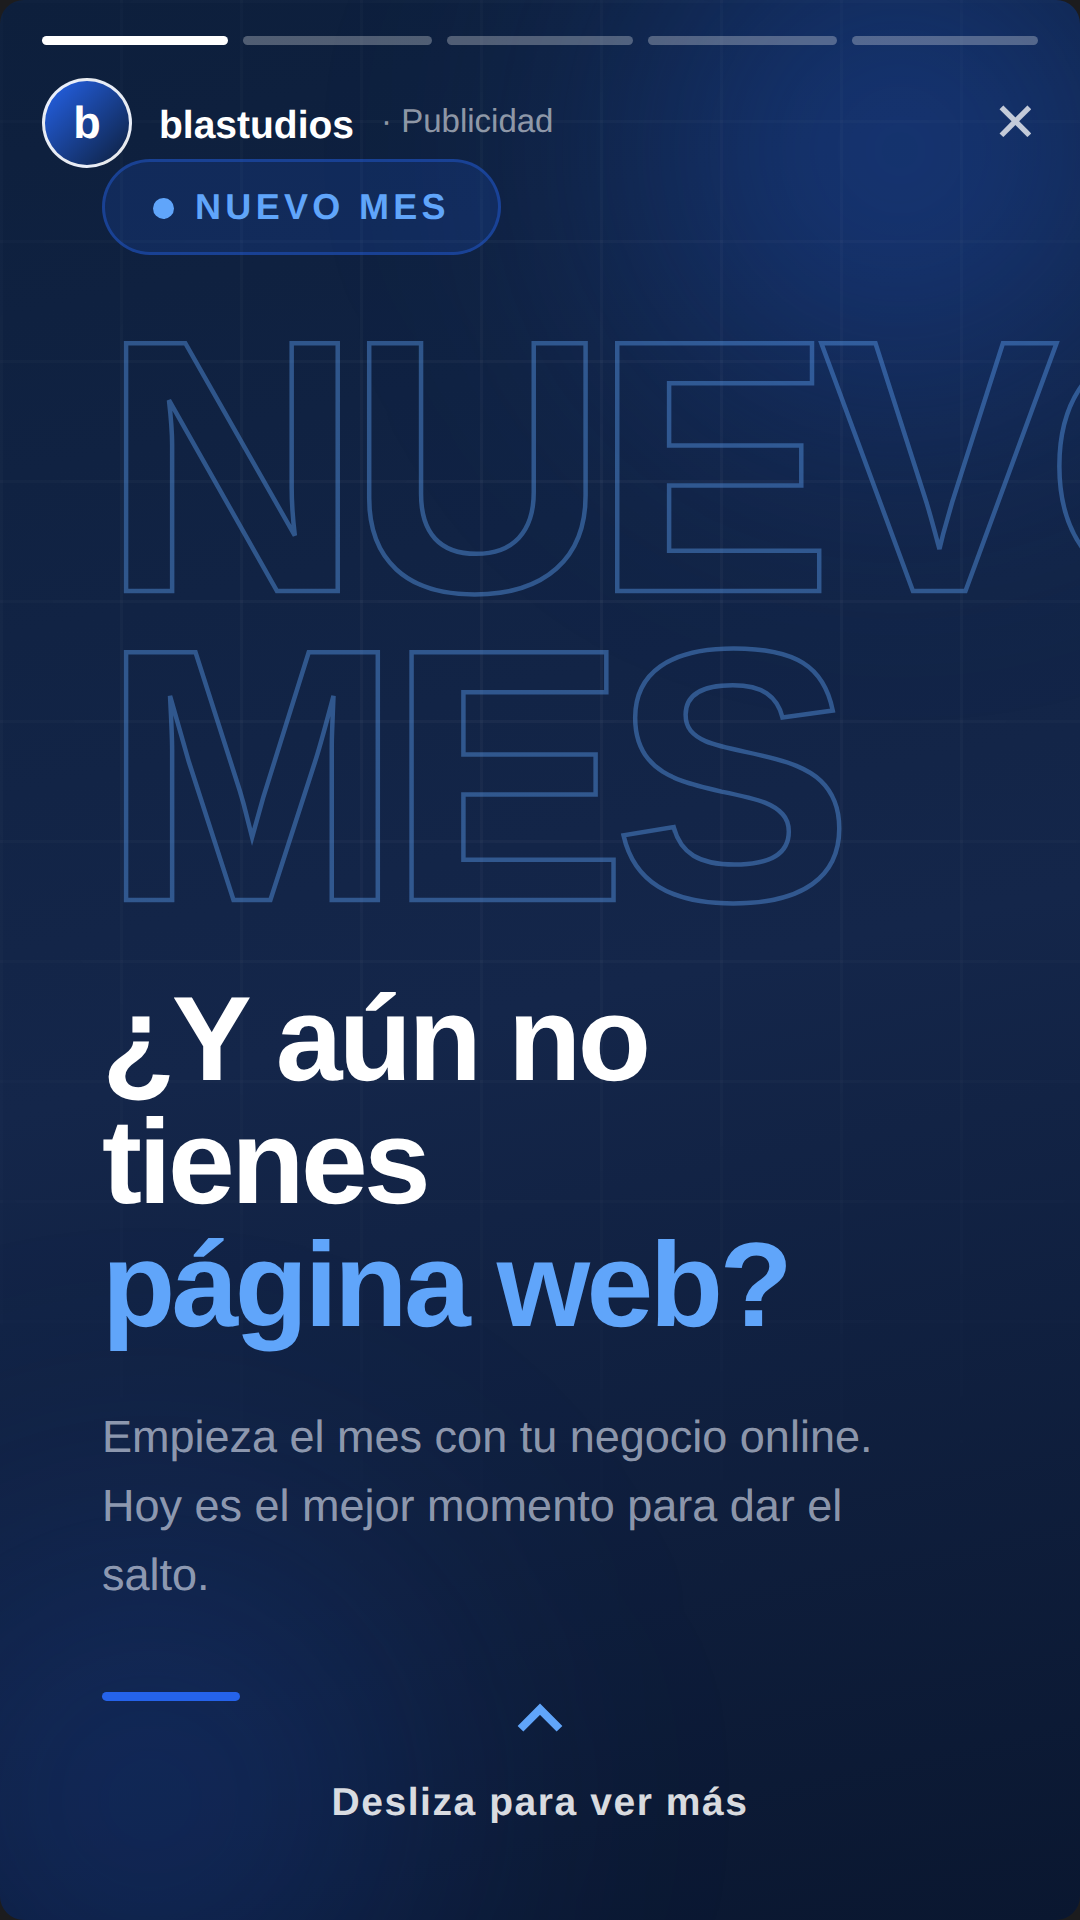
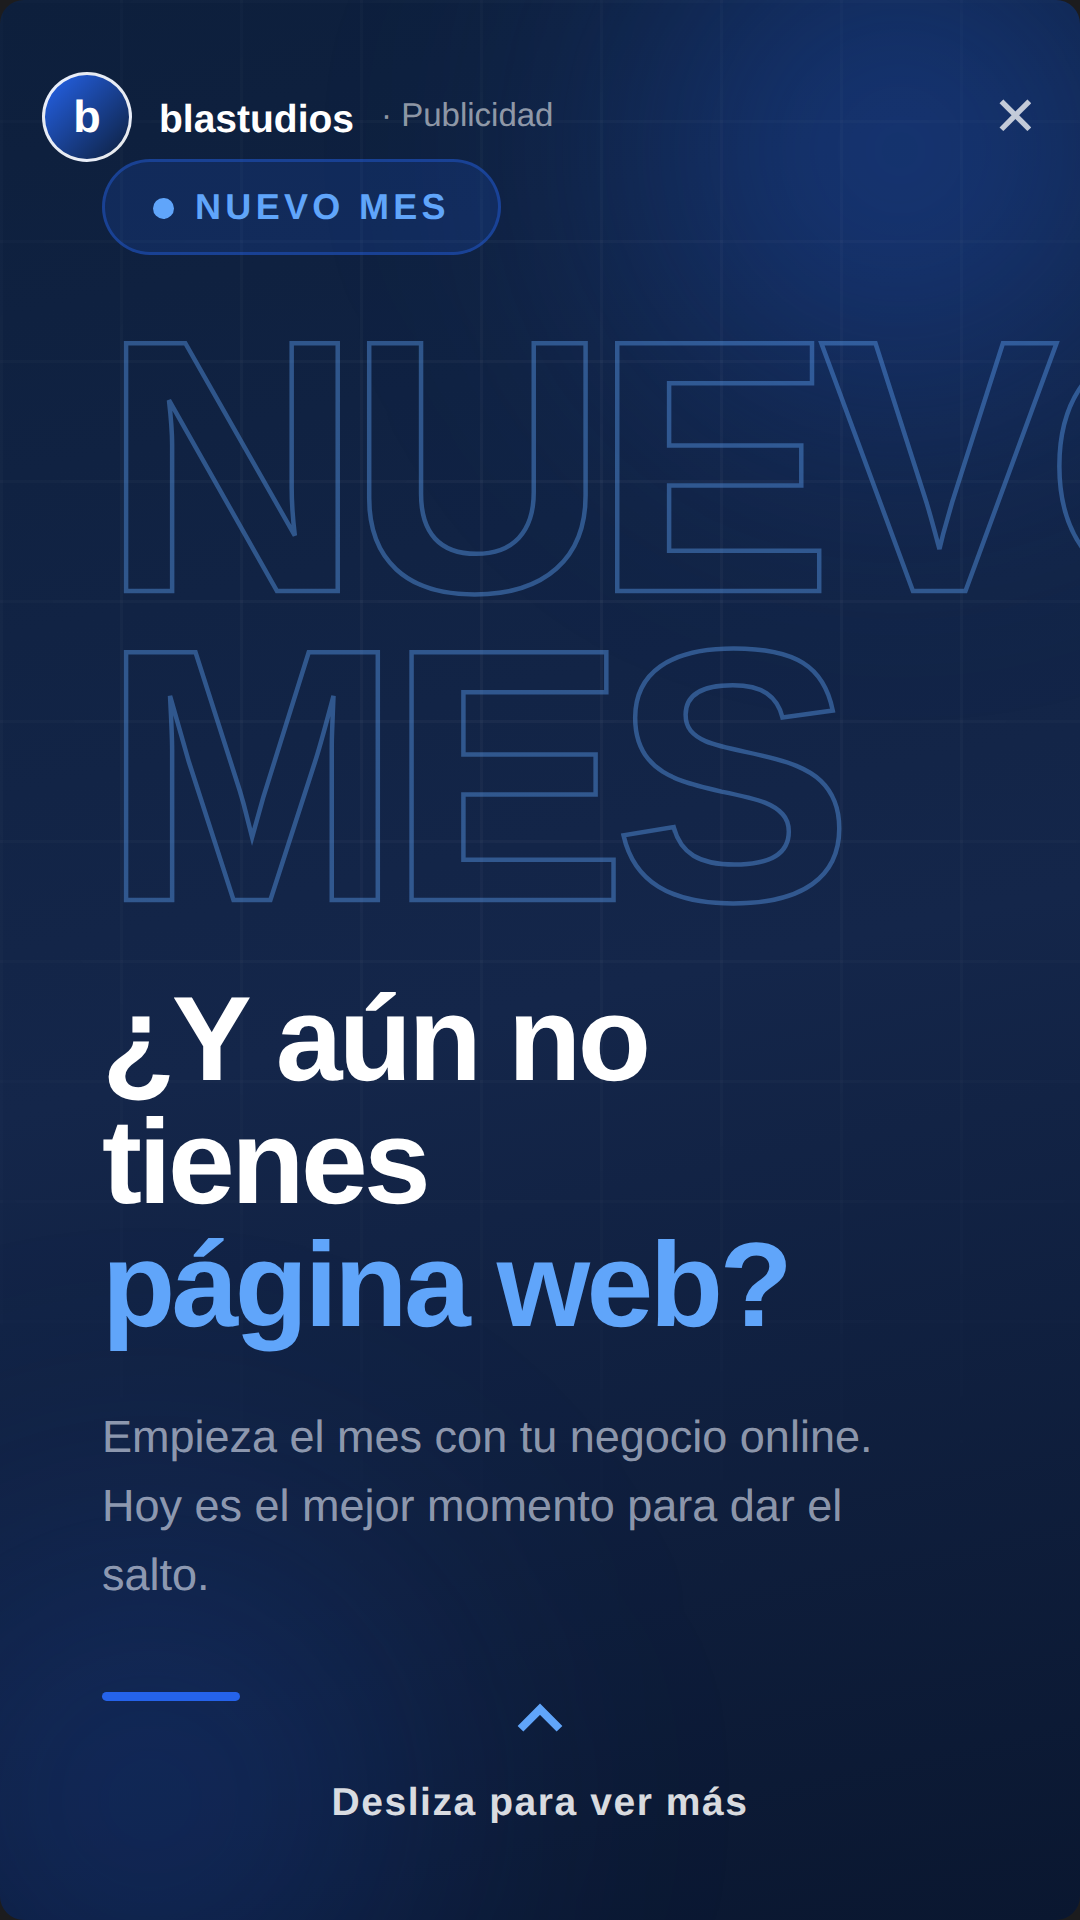
Remove Instagram story progress bars from stories carousel
Claude-Session: https://claude.ai/code/session_01BwG8Sr5B2t2yYbA8roGtjM

diff --git a/carruceles instagram/13-stories-nuevo-mes.html b/carruceles instagram/13-stories-nuevo-mes.html
@@ -53,14 +53,8 @@
   }
 
   /* ─── Instagram story chrome ─────────────────── */
-  .progress {
-    position: absolute; top: 12px; left: 14px; right: 14px;
-    display: flex; gap: 5px; z-index: 8;
-  }
-  .progress i { flex: 1; height: 2.5px; border-radius: 2px; background: rgba(255,255,255,0.28); }
-  .progress i.on { background: #fff; }
   .story-head {
-    position: absolute; top: 26px; left: 14px; right: 14px;
+    position: absolute; top: 24px; left: 14px; right: 14px;
     display: flex; align-items: center; gap: 9px; z-index: 8;
   }
   .story-head .av {
@@ -241,7 +235,6 @@
 <div>
 <div class="story hook">
   <div class="orb orb-a"></div><div class="orb orb-b"></div><div class="grid-lines"></div>
-  <div class="progress"><i class="on"></i><i></i><i></i><i></i><i></i></div>
   <div class="story-head">
     <span class="av">b</span>
     <div><div class="u">blastudios</div></div>
@@ -267,7 +260,6 @@
 <div>
 <div class="story why">
   <div class="orb orb-a"></div><div class="orb orb-b"></div><div class="grid-lines"></div>
-  <div class="progress"><i></i><i class="on"></i><i></i><i></i><i></i></div>
   <div class="story-head">
     <span class="av">b</span><div><div class="u">blastudios</div></div>
     <span class="tag">· Publicidad</span><span class="x">✕</span>
@@ -299,7 +291,6 @@
 <div>
 <div class="story serv">
   <div class="orb orb-a"></div><div class="orb orb-b"></div><div class="grid-lines"></div>
-  <div class="progress"><i></i><i></i><i class="on"></i><i></i><i></i></div>
   <div class="story-head">
     <span class="av">b</span><div><div class="u">blastudios</div></div>
     <span class="tag">· Publicidad</span><span class="x">✕</span>
@@ -338,7 +329,6 @@
 <div>
 <div class="story edge">
   <div class="orb orb-a"></div><div class="orb orb-b"></div><div class="grid-lines"></div>
-  <div class="progress"><i></i><i></i><i></i><i class="on"></i><i></i></div>
   <div class="story-head">
     <span class="av">b</span><div><div class="u">blastudios</div></div>
     <span class="tag">· Publicidad</span><span class="x">✕</span>
@@ -360,7 +350,6 @@
 <div>
 <div class="story cta">
   <div class="orb orb-a"></div><div class="orb orb-b"></div><div class="grid-lines"></div>
-  <div class="progress"><i></i><i></i><i></i><i></i><i class="on"></i></div>
   <div class="story-head">
     <span class="av">b</span><div><div class="u">blastudios</div></div>
     <span class="tag">· Publicidad</span><span class="x">✕</span>
